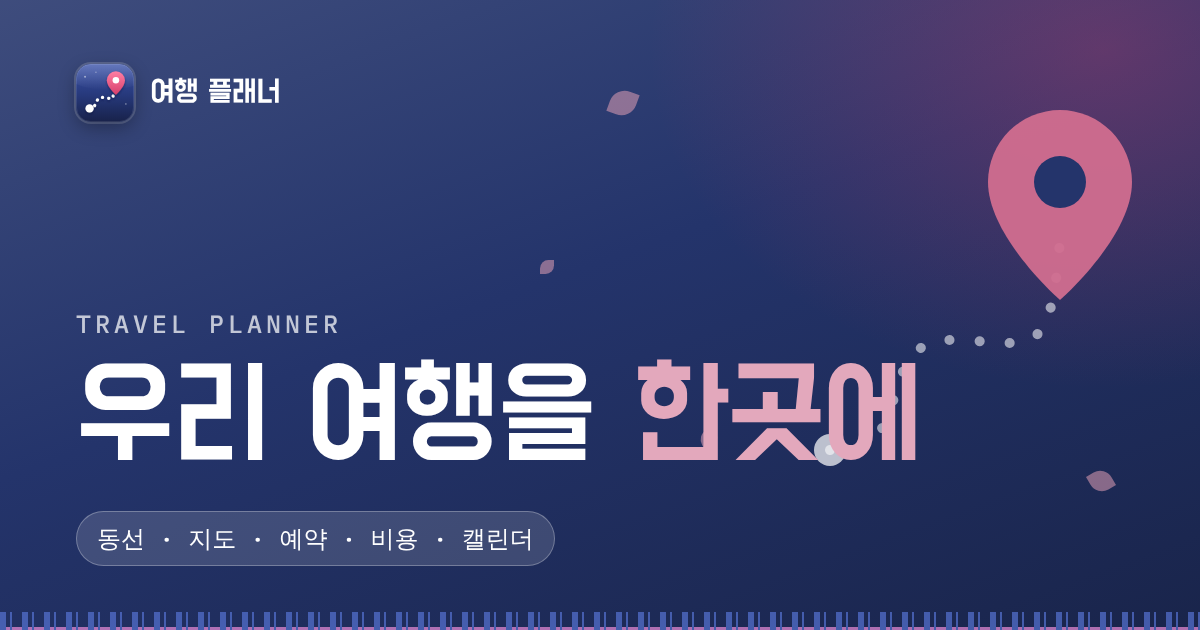
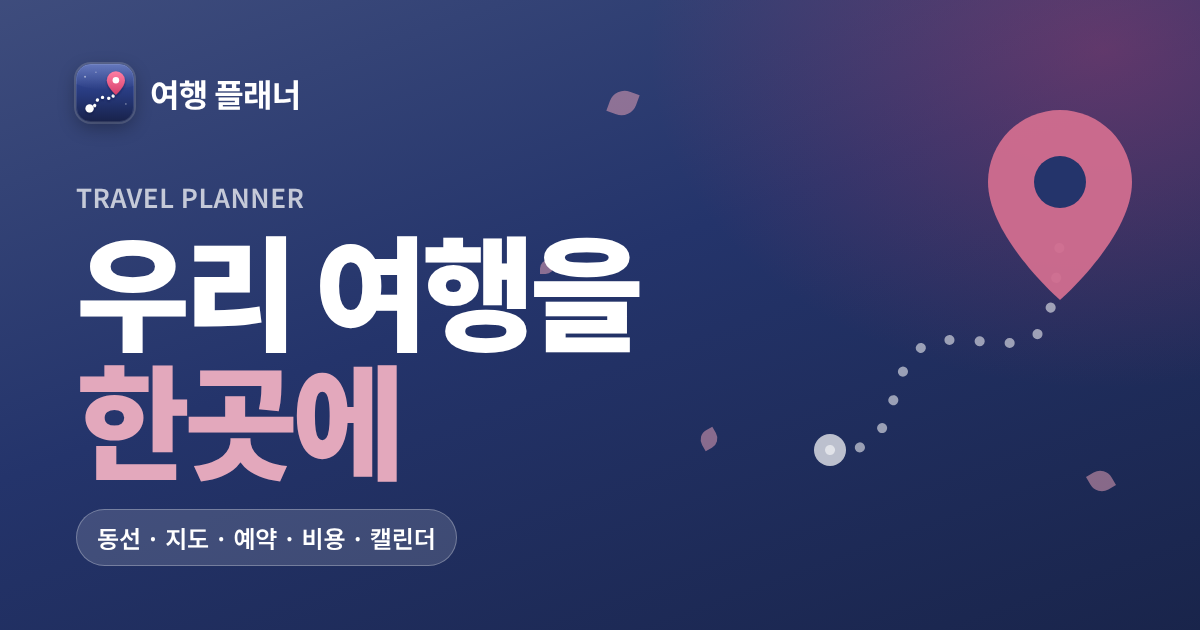
애플풍 UI로 전면 개편, 바코드 띠 제거
- 시스템 글꼴(SF·Apple SD Gothic Neo, 그 밖은 Pretendard)로 통일, 손글씨·고정폭 글꼴 제거
- 회색 그룹 배경 위 테두리 없는 카드, 반투명 내비·날짜 탭, 채움 버튼
- 여행 앱 같은 짙은 그라데이션 표지, 일정은 점과 선의 타임라인
- iOS 시트(손잡이), 썸네일도 새 글꼴로 다시 그림, 새 여행 추가 안내는 팝업으로

Claude-Session: https://claude.ai/code/session_014PvvS6ZviGziWbftq7rfiF

diff --git a/planner/style.css b/planner/style.css
@@ -390,3 +390,158 @@ a.trip.has-cover:hover .cover{transform:scale(1.03)}
 dialog.sheet .x:focus:not(:focus-visible){outline:none}
 a.trip.has-cover .ttl{position:absolute;width:1px;height:1px;overflow:hidden;clip-path:inset(50%)}
 a.trip.has-cover{position:relative}
+
+/* ================================================================ v5 애플풍 UI
+   시스템 글꼴, 회색 그룹 배경 위 흰 카드, 반투명 내비, 세그먼트 탭, 타임라인 일정, 바코드 띠 제거 */
+:root{
+ --f-sys:-apple-system,BlinkMacSystemFont,"SF Pro Text","Apple SD Gothic Neo","Pretendard Variable",Pretendard,"Noto Sans KR",system-ui,sans-serif;
+ --f-body:var(--f-sys); --f-data:var(--f-sys); --f-hand:var(--f-sys);
+ --bg:#f2f2f7; --card:#ffffff; --label2:rgba(60,60,67,.6); --label3:rgba(60,60,67,.3); --sep:rgba(60,60,67,.14); --fill:rgba(120,120,128,.12);
+ --r-card:20px; --r-ctl:12px; --ease:cubic-bezier(.32,.72,0,1);
+}
+@media (prefers-color-scheme: dark){:root:not([data-theme="light"]){--bg:#000;--card:#1c1c1e;--label2:rgba(235,235,245,.6);--label3:rgba(235,235,245,.3);--sep:rgba(84,84,88,.6);--fill:rgba(118,118,128,.24)}}
+:root[data-theme="dark"]{--bg:#000;--card:#1c1c1e;--label2:rgba(235,235,245,.6);--label3:rgba(235,235,245,.3);--sep:rgba(84,84,88,.6);--fill:rgba(118,118,128,.24)}
+[class*="theme-"]{--f-display:var(--f-sys);--band:none;--paper:var(--bg);--surface:var(--card);--line:var(--sep);--muted:var(--label2);--surface2:var(--fill)}
+body{font-family:var(--f-sys);font-size:16px;line-height:1.55;letter-spacing:-.01em;background:var(--bg);-webkit-font-smoothing:antialiased}
+.num,.n,.time,.t,.cost,.yen{font-family:var(--f-sys);font-variant-numeric:tabular-nums;letter-spacing:0}
+.kenjo{display:none}
+/* 표지(히어로): 여행 앱처럼 짙은 그라데이션 커버 */
+header.hero{border:none;color:#fff;border-radius:0 0 28px 28px;
+ background:radial-gradient(120% 80% at 100% 0%,color-mix(in srgb,var(--acc) 45%,transparent),transparent 60%),linear-gradient(165deg,color-mix(in srgb,var(--pri) 85%,#fff 8%),var(--pri) 50%,color-mix(in srgb,var(--pri) 70%,#000))}
+@media (prefers-color-scheme: dark){:root:not([data-theme="light"]) header.hero{background:radial-gradient(120% 80% at 100% 0%,color-mix(in srgb,var(--acc) 30%,transparent),transparent 60%),linear-gradient(165deg,#1c2340,#0b0f1e)}}
+header.hero .wrap{padding-block:max(18px,env(safe-area-inset-top,0px)) 30px}
+.hero .eyebrow{font-family:var(--f-sys);font-size:13px;font-weight:600;letter-spacing:.02em;color:rgba(255,255,255,.7)}
+.hero h1{font-family:var(--f-sys);font-weight:800;font-size:clamp(34px,9vw,52px);letter-spacing:-.035em;line-height:1.08;color:#fff;margin:6px 0 12px}
+.hero h1 em{background:none;padding:0;color:color-mix(in srgb,var(--acc) 40%,#fff)}
+.hero p{color:rgba(255,255,255,.82);font-size:16px}
+.facts{gap:8px;margin-top:18px}
+.facts span{color:rgba(255,255,255,.7);background:rgba(255,255,255,.12);border-radius:999px;padding:5px 12px;font-size:13px;-webkit-backdrop-filter:blur(12px);backdrop-filter:blur(12px)}
+.facts span b{color:#fff;font-weight:600}
+.hero .cta{gap:10px;margin-top:20px}
+.hero .btn{border:none;background:rgba(255,255,255,.16);color:#fff;-webkit-backdrop-filter:blur(16px);backdrop-filter:blur(16px)}
+.hero .btn.primary{background:#fff;color:var(--pri)}
+@media (prefers-color-scheme: dark){:root:not([data-theme="light"]) .hero .btn.primary{color:#0b0f1e}}
+.hero .chk{background:rgba(255,255,255,.2);color:#fff}
+.topbar{margin-bottom:26px}
+.brand{font-family:var(--f-sys);font-weight:700;font-size:17px;letter-spacing:-.02em;color:#fff}
+.brand svg{box-shadow:0 4px 14px rgba(0,0,0,.25),0 0 0 1px rgba(255,255,255,.18)}
+.topbar .back,.help{border:none;background:rgba(255,255,255,.16);color:#fff;-webkit-backdrop-filter:blur(16px);backdrop-filter:blur(16px);font-weight:600}
+.topbar .back:hover,.help:hover{color:#fff;background:rgba(255,255,255,.26)}
+/* 버튼: 애플식 채움 버튼 */
+.btn{border:none;border-radius:var(--r-ctl);padding:11px 16px;font-size:15px;font-weight:600;letter-spacing:-.01em;background:color-mix(in srgb,var(--pri) 12%,transparent);color:var(--pri)}
+.btn.primary{background:var(--pri);color:#fff}
+@media (prefers-color-scheme: dark){:root:not([data-theme="light"]) .btn.primary{color:#000}}
+.btn:hover{filter:none;transform:none;opacity:.88}
+.btn:active,.pchip:active,.gchip:active,a.trip:active,.daytabs button:active{transform:scale(.97);transition-duration:.08s}
+button.fb{border:none;background:color-mix(in srgb,var(--acc) 12%,transparent);border-radius:var(--r-ctl);padding:8px 14px;font-size:14px;font-weight:600}
+/* 반투명 내비 + 세그먼트 */
+nav.chips{background:color-mix(in srgb,var(--bg) 72%,transparent);-webkit-backdrop-filter:saturate(180%) blur(20px);backdrop-filter:saturate(180%) blur(20px);border-bottom:.5px solid var(--sep)}
+nav.chips .wrap{gap:4px;padding-block:10px}
+nav.chips a{border:none;background:transparent;color:var(--label2);font-size:14px;font-weight:600;border-radius:999px;padding:6px 13px}
+nav.chips a:hover{color:var(--ink)}
+nav.chips a.active{background:var(--ink);color:var(--bg)}
+body::before{background:var(--bg)}
+/* 섹션 제목: 큰 제목 */
+section{padding-block:36px 4px}
+h2{font-family:var(--f-sys);font-weight:800;font-size:28px;letter-spacing:-.03em;line-height:1.15;margin-bottom:6px}
+h2 .num{display:none}
+h3{font-size:17px;font-weight:700;letter-spacing:-.02em}
+.lead{font-size:15px;color:var(--label2);margin-bottom:18px}
+/* 카드: 테두리 없는 흰 카드 */
+.card,.day,.pchip,.gchip,a.trip,.alt,.mapbox{border:none;border-radius:var(--r-card);background:var(--card);box-shadow:0 1px 1px rgba(0,0,0,.02),0 8px 24px -10px rgba(0,0,0,.10)}
+@media (prefers-color-scheme: dark){:root:not([data-theme="light"]) :is(.card,.day,.pchip,.gchip,a.trip,.alt){box-shadow:none}}
+.card{padding:18px}
+.alt{background:var(--card)}
+.mapbox{border-radius:16px;box-shadow:none;background:var(--fill)}
+.mapcap{border-top:none}
+.chk{border-radius:6px;font-weight:600}
+.tag,.st{border-radius:6px;font-weight:600;padding:2px 8px}
+/* 간단 일정: 타임라인 */
+.day{overflow:hidden}
+.day .dh{border-bottom:none;padding:16px 18px 6px}
+.day .dh b{font-family:var(--f-sys);font-weight:800;font-size:20px;letter-spacing:-.02em}
+.simple,.simple tbody{display:block}
+.simple tbody{position:relative;padding:4px 18px 14px}
+.simple tr{display:grid;grid-template-columns:84px 1fr;column-gap:14px;position:relative;padding:9px 0 9px 20px}
+.simple tr::before{content:"";position:absolute;left:0;top:15px;width:9px;height:9px;border-radius:50%;background:var(--card);box-shadow:0 0 0 2px var(--accent,var(--pri));z-index:1}
+.simple tr::after{content:"";position:absolute;left:4px;top:0;bottom:0;width:1px;background:var(--sep)}
+.simple tr:first-child::after{top:18px}.simple tr:last-child::after{bottom:auto;height:18px}
+.simple tr.meal::before{background:var(--accent,var(--pri))}
+.simple td{display:block;border:none;padding:0}
+.simple td.k{grid-row:1;grid-column:1;width:auto;font-size:14px;color:var(--ink)}
+.simple td.t{grid-row:2;grid-column:1;width:auto;font-size:12px;color:var(--label2)}
+.simple td:last-child{grid-row:1/3;grid-column:2;font-size:15px}
+.simple tr.meal td.k{color:var(--accent,var(--pri))}
+/* 날짜 탭: 세그먼트 */
+.daytabs{background:color-mix(in srgb,var(--bg) 80%,transparent);-webkit-backdrop-filter:saturate(180%) blur(20px);backdrop-filter:saturate(180%) blur(20px);gap:8px;padding-block:8px}
+.daytabs button{border:none;background:var(--card);border-radius:14px;padding:8px 14px;box-shadow:0 1px 2px rgba(0,0,0,.05)}
+.daytabs button b{font-family:var(--f-sys);font-weight:700;font-size:15px}
+.daytabs button small{font-size:12px}
+.daytabs button[aria-selected="true"]{background:var(--accent,var(--pri));box-shadow:0 6px 16px -6px var(--accent,var(--pri))}
+.daytabs button[aria-selected="true"] b,.daytabs button[aria-selected="true"] small{color:#fff}
+.dayhead{border-top:none;padding-top:18px}
+.dayhead .t{font-family:var(--f-sys);font-weight:800;font-size:24px;letter-spacing:-.03em}
+.dayhead .s{font-family:var(--f-sys);font-size:15px}
+/* 상세 시간표: 타임라인 */
+.blocks td{border-bottom:.5px solid var(--sep)}
+.blocks td.time{font-weight:600}
+@media (max-width:640px){
+ .card:has(>.blocks){padding:6px 18px!important}
+ .blocks tr{position:relative;padding:12px 0 12px 22px;border-bottom:none}
+ .blocks tr::before{content:"";position:absolute;left:0;top:19px;width:9px;height:9px;border-radius:50%;background:var(--card);box-shadow:0 0 0 2px var(--accent,var(--pri));z-index:1}
+ .blocks tr::after{content:"";position:absolute;left:4px;top:0;bottom:0;width:1px;background:var(--sep)}
+ .blocks tr:first-child::after{top:22px}.blocks tr:last-child::after{bottom:auto;height:22px}
+ .blocks td{border:none}
+ .blocks tr.tap:active{background:var(--fill);border-radius:12px}
+}
+.blocks tr.tap td.place::after{content:"";display:inline-block;width:7px;height:7px;margin-left:8px;border-top:2px solid var(--label3);border-right:2px solid var(--label3);transform:translateY(-2px) rotate(45deg)}
+/* 경로 칩 */
+.route li a{background:var(--fill);padding:4px 12px 4px 4px;font-size:14px}
+.route li a.on{outline:none;background:var(--accent,var(--pri));color:#fff}
+.route li a.on i{background:#fff;color:var(--accent,var(--pri))}
+.route li:not(:last-child)::after{background:var(--sep)}
+/* 장소·그룹 칩 */
+.pchip,.gchip{padding:14px 16px}
+.pchip .nm,.gchip .nm{font-size:15px;font-weight:600;letter-spacing:-.01em}
+.pchip .cost{font-family:var(--f-sys);font-size:13px}
+.pchip:hover,.gchip:hover{transform:none;box-shadow:0 1px 1px rgba(0,0,0,.02),0 12px 30px -10px rgba(0,0,0,.16)}
+.gchip.ov .k{font-family:var(--f-sys);font-size:13px;font-weight:600;letter-spacing:0}
+.gchip.ov.hot{background:var(--card);box-shadow:inset 0 0 0 1.5px color-mix(in srgb,var(--acc) 45%,transparent),0 8px 24px -10px rgba(0,0,0,.10)}
+.gchip.ov:after{border-color:var(--label3)}
+/* 우리의 픽 */
+.pickpanel{border:none}
+.pp-h h3{font-family:var(--f-sys);font-size:20px;font-weight:800;color:var(--ink)}
+.pp-who button{font-family:var(--f-sys);font-size:15px;font-weight:600;border:none;background:color-mix(in srgb,var(--tone) 12%,transparent);padding:7px 16px}
+.pp-who button[aria-pressed="true"]{background:var(--tone);color:#fff}
+.pk-badge{font-family:var(--f-sys);font-size:12px;font-weight:600;padding:2px 9px}
+.pk-heart{border:none;background:color-mix(in srgb,var(--tone) 12%,transparent);font-weight:600;padding:3px 11px}
+.pk-heart[aria-pressed="true"]{color:#fff}
+.pk-list h4{font-family:var(--f-sys);font-size:17px;font-weight:700}
+.pickbar .ai,.lead .ai{background:linear-gradient(90deg,#5e5ce6,#bf5af2);color:#fff;font-weight:600}
+.pickdock{background:color-mix(in srgb,var(--card) 80%,transparent);color:var(--ink);-webkit-backdrop-filter:saturate(180%) blur(20px);backdrop-filter:saturate(180%) blur(20px);box-shadow:0 10px 40px rgba(0,0,0,.18),0 0 0 .5px var(--sep)}
+.pickdock button.ghost{color:var(--ink)}
+/* 예산 막대 */
+.bar .track{border-radius:8px;background:var(--fill)}
+.bar .rng{border:none;border-radius:8px;background:linear-gradient(90deg,color-mix(in srgb,var(--acc) 55%,transparent),var(--acc))}
+.bar .lbl,.bar .val,.axis{font-family:var(--f-sys)}
+ul.todo li .box{border-radius:50%;border-color:var(--label3)}
+/* 시트: iOS 시트 (손잡이, 둥근 위쪽) */
+dialog.sheet{border-radius:22px;background:var(--card)}
+dialog.sheet::backdrop{background:rgba(0,0,0,.32)}
+.sheet-h{border-top:none;border-bottom:.5px solid var(--sep);padding:20px 18px 12px;position:relative}
+.sheet-h::before{content:"";position:absolute;left:50%;top:7px;width:36px;height:5px;margin-left:-18px;border-radius:3px;background:var(--label3)}
+.sheet-h b{font-size:19px;font-weight:700;letter-spacing:-.02em}
+.sheet-h .x{width:30px;height:30px;background:var(--fill);color:var(--label2);font-size:13px;font-weight:700}
+.sheet-b{padding:14px 18px 22px}
+dialog.sheet.welcome .sheet-h{background:none}
+@media (max-width:640px){dialog.sheet{border-radius:22px 22px 0 0}}
+dialog.sheet[open]{animation:sheetin .45s var(--ease) both}
+/* 목록 홈 */
+a.trip{border-top:none}
+a.trip .when{font-family:var(--f-sys);font-size:13px}
+a.trip .dday{font-family:var(--f-sys);border-radius:999px;padding:2px 10px}
+.howto code{font-family:ui-monospace,Menlo,monospace}
+.steps li:before{font-family:var(--f-sys);font-weight:700}
+.totop{width:44px;height:44px;background:color-mix(in srgb,var(--card) 80%,transparent);color:var(--ink);-webkit-backdrop-filter:blur(20px);backdrop-filter:blur(20px);box-shadow:0 6px 20px rgba(0,0,0,.15),0 0 0 .5px var(--sep)}
+.toast{border-radius:14px;background:color-mix(in srgb,var(--ink) 88%,transparent);-webkit-backdrop-filter:blur(20px);backdrop-filter:blur(20px)}
+footer .wrap{color:var(--label2)}

diff --git a/planner/tools/render-assets.js b/planner/tools/render-assets.js
@@ -8,7 +8,7 @@ const mark = fs.readFileSync(path.join(BRAND, 'mark.svg'), 'utf8');
 const icon = fs.readFileSync(path.join(BRAND, 'icon.svg'), 'utf8');
 const themes = JSON.parse(fs.readFileSync(path.join(ROOT, 'planner/themes.json'), 'utf8'));
 const css = fs.readFileSync(path.join(ROOT, 'planner/style.css'), 'utf8');
-const FONTS = '<link rel="stylesheet" href="https://fonts.googleapis.com/css2?family=Do+Hyeon&family=Jua&family=Gowun+Dodum&family=Gowun+Batang:wght@700&family=Black+Han+Sans&family=Gaegu:wght@700&family=IBM+Plex+Mono:wght@500&family=Noto+Sans+KR:wght@400;700&display=block">';
+const FONTS = '<link rel="stylesheet" href="https://fonts.googleapis.com/css2?family=Noto+Sans+KR:wght@400;500;600;700;800;900&display=block">';
 const esc = s => String(s).replace(/[&<>"]/g, c => ({ '&': '&amp;', '<': '&lt;', '>': '&gt;', '"': '&quot;' }[c]));
 const ymd = s => s.replace(/-/g, '.');
 
@@ -16,17 +16,18 @@ function og({ theme, eyebrow, title, when, days }) {
   const t = esc(title).replace(/\*(.+?)\*/g, '<em>$1</em>');
   return `<!doctype html><meta charset="utf-8">${FONTS}<style>${css}
   html,body{margin:0;width:1200px;height:630px;overflow:hidden}
+  :root{--f-sys:"Noto Sans KR",sans-serif}
   .og{position:relative;width:1200px;height:630px;box-sizing:border-box;padding:64px 76px;display:flex;flex-direction:column;overflow:hidden;color:#fff;
     background:radial-gradient(700px 520px at 92% 8%,color-mix(in srgb,var(--acc) 38%,transparent),transparent 65%),linear-gradient(160deg,color-mix(in srgb,var(--pri) 88%,#fff),var(--pri) 45%,color-mix(in srgb,var(--pri) 70%,#000))}
-  .og:after{content:"";position:absolute;left:0;right:0;bottom:0;height:18px;background:var(--band);filter:brightness(2.2) saturate(.8);opacity:.7}
-  .brand{display:flex;align-items:center;gap:16px;font-family:"Do Hyeon";font-size:32px;color:#fff;position:relative}
+  
+  .brand{display:flex;align-items:center;gap:16px;font:700 32px "Noto Sans KR";letter-spacing:-.02em;color:#fff;position:relative}
   .brand svg{width:58px;height:58px;border-radius:15px;box-shadow:0 6px 18px rgba(0,0,0,.3),0 0 0 2px rgba(255,255,255,.18)}
-  .eb{margin-top:auto;font-family:"IBM Plex Mono";font-size:25px;letter-spacing:.16em;color:rgba(255,255,255,.72);position:relative}
-  h1{font-family:var(--f-display);font-weight:400;font-size:128px;line-height:1.02;margin:10px 0 26px;letter-spacing:-.015em;position:relative;max-width:900px;text-wrap:balance}
+  .eb{margin-top:auto;font:600 26px "Noto Sans KR";letter-spacing:.02em;color:rgba(255,255,255,.72);position:relative}
+  h1{font:900 124px/1.04 "Noto Sans KR";margin:8px 0 28px;letter-spacing:-.05em;position:relative;max-width:900px;text-wrap:balance}
   h1 em{font-style:normal;color:color-mix(in srgb,var(--acc) 45%,#fff)}
   .meta{display:flex;align-items:center;gap:18px;position:relative;font:700 27px "Noto Sans KR"}
-  .meta .pill{padding:10px 20px;border-radius:999px;background:rgba(255,255,255,.14);border:1.5px solid rgba(255,255,255,.28);font-family:"IBM Plex Mono";font-weight:500;font-size:24px}
-  .meta .hand{font:700 36px "Gaegu";color:color-mix(in srgb,var(--acc) 40%,#fff);transform:rotate(-3deg)}
+  .meta .pill{padding:10px 20px;border-radius:999px;background:rgba(255,255,255,.14);border:1.5px solid rgba(255,255,255,.28);font:600 24px "Noto Sans KR";-webkit-backdrop-filter:blur(10px)}
+  .meta .hand{font:600 26px "Noto Sans KR";color:rgba(255,255,255,.75)}
   svg.deco{position:absolute;right:20px;top:10px;width:560px;height:560px}
   .p{position:absolute;border-radius:60% 0 60% 0;background:color-mix(in srgb,var(--acc) 50%,#fff);opacity:.55}
   </style><body class="theme-${theme}"><div class="og">
@@ -64,7 +65,7 @@ const iconHTML = (size, pad) => `<!doctype html><style>html,body{margin:0;backgr
     const n = Math.round((new Date(t.end) - new Date(t.start)) / 864e5);
     all.push(t);
     await p.setContent(og({ theme: t.theme || 'hakata', eyebrow: t.eyebrow || '', title: t.title,
-      when: { text: `${ymd(t.start)} — ${t.end.slice(5).replace('-', '.')} · ${n}박 ${n + 1}일`, hand: (t.travelers || []).map(x => x.name).join(' & ') + ' 여행' },
+      when: { text: `${ymd(t.start)} — ${t.end.slice(5).replace('-', '.')} · ${n}박 ${n + 1}일`, hand: (t.travelers || []).map(x => x.name).join(' · ') + '의 여행' },
       days: t.days.map(d => d.theme).slice(0, 5) }), { waitUntil: 'networkidle' });
     await p.evaluate(() => document.fonts.ready);
     await p.screenshot({ path: path.join(tdir, slug, 'og.png') });

diff --git a/planner/build.py b/planner/build.py
@@ -36,12 +36,9 @@ THEMES = json.load(open(os.path.join(os.path.dirname(os.path.abspath(__file__)),
 
 
 def fonts(themes):
-    fams = sorted({THEMES.get(t, THEMES["hakata"])["font"] for t in themes})
-    q = "&".join("family=" + f.replace(" ", "+") for f in fams)
-    return ('<link rel="preconnect" href="https://fonts.googleapis.com">'
-            '<link rel="preconnect" href="https://fonts.gstatic.com" crossorigin>'
-            f'<link href="https://fonts.googleapis.com/css2?{q}&family=Gaegu:wght@400;700&family=IBM+Plex+Mono:wght@500;600'
-            '&family=Noto+Sans+KR:wght@400;500;700&display=swap" rel="stylesheet">')
+    """애플 기기는 시스템 글꼴(SF·Apple SD Gothic Neo), 그 밖의 기기는 비슷한 Pretendard."""
+    return ('<link rel="preconnect" href="https://cdn.jsdelivr.net" crossorigin>'
+            '<link rel="stylesheet" href="https://cdn.jsdelivr.net/gh/orioncactus/pretendard@v1.3.9/dist/web/variable/pretendardvariable-dynamic-subset.min.css">')
 
 
 def e(s):
@@ -466,6 +463,11 @@ def render_home(trips):
         cards.append(f'<a class="trip theme-{e(t.get("theme", "hakata"))} c-{e(color)}{" has-cover" if has_og else ""}" href="trips/{e(slug)}/">{cover}<span class="dday" data-start="{t["start"]}" data-end="{t["end"]}">{s:%Y.%m}</span>'
                      f'<span class="ttl">{e(t["title"].replace("*", ""))}</span><span class="when">{s:%Y.%m.%d} — {z:%m.%d} · {n}박 {n + 1}일 · {e(t.get("country", ""))}</span>'
                      f'<span class="intro">{e(t.get("intro", ""))}</span></a>')
+    howto_sheet = sheet("howto", "새 여행 추가하기", "3단계", '''<ol>
+<li><code>trips/2027-03-fukuoka/trip.json</code>을 복사해서 <code>trips/연도-월-도시/trip.json</code>을 만들어요.</li>
+<li>날짜, 동선(<code>route.stops</code>의 이름과 구글 지도 검색어), 시간표를 채워요. 일정 메모를 Claude에게 주면 이 형식으로 바꿔 줘요.</li>
+<li>GitHub에 올리면 1~2분 뒤 이 목록과 캘린더 파일이 자동으로 바뀌어요.</li>
+</ol>''')
     body = f'''<header class="hero"><div class="wrap">
 <div class="topbar">{brand("")}</div>
 <div class="eyebrow">TRAVEL PLANNER</div>
@@ -475,12 +477,9 @@ def render_home(trips):
 </div><div class="kenjo" aria-hidden="true"></div></header>
 <main class="wrap">
 <section><h2>여행 {len(trips)}개</h2><p class="lead">가까운 여행부터 보여요.</p><div class="trips">{"".join(cards)}</div></section>
-<section class="howto"><h2>새 여행 추가하기</h2><div class="card"><ol>
-<li><code>trips/2027-03-fukuoka/trip.json</code>을 복사해서 <code>trips/연도-월-도시/trip.json</code>을 만들어요.</li>
-<li>날짜, 동선(<code>route.stops</code>의 이름과 구글 지도 검색어), 시간표를 채워요. 일정 메모를 Claude에게 주면 이 형식으로 바꿔 줘요.</li>
-<li>GitHub에 올리면 1~2분 뒤 이 목록과 캘린더 파일이 자동으로 바뀌어요.</li>
-</ol></div></section>
+<section class="howto"><button type="button" class="gchip ov wide" data-open="howto"><span class="k">관리자용</span><span class="nm">새 여행 추가하는 방법</span><small>여행 파일을 하나 만들면 이 목록과 캘린더가 자동으로 바뀌어요</small></button></section>
 </main>
+{howto_sheet}
 <footer><div class="wrap">각 여행의 '캘린더에 추가'를 아이폰에서 누르면 애플 캘린더에 일정이 들어가요.</div></footer>'''
     og = {"title": SITE_NAME, "desc": "우리 여행의 동선, 지도, 예약, 비용을 한곳에서 봐요.", "image": "assets/og-home.png", "path": ""}
     return page(SITE_NAME, body, 0, "hakata", [t.get("theme", "hakata") for _, t in trips] + ["hakata"], og=og)
